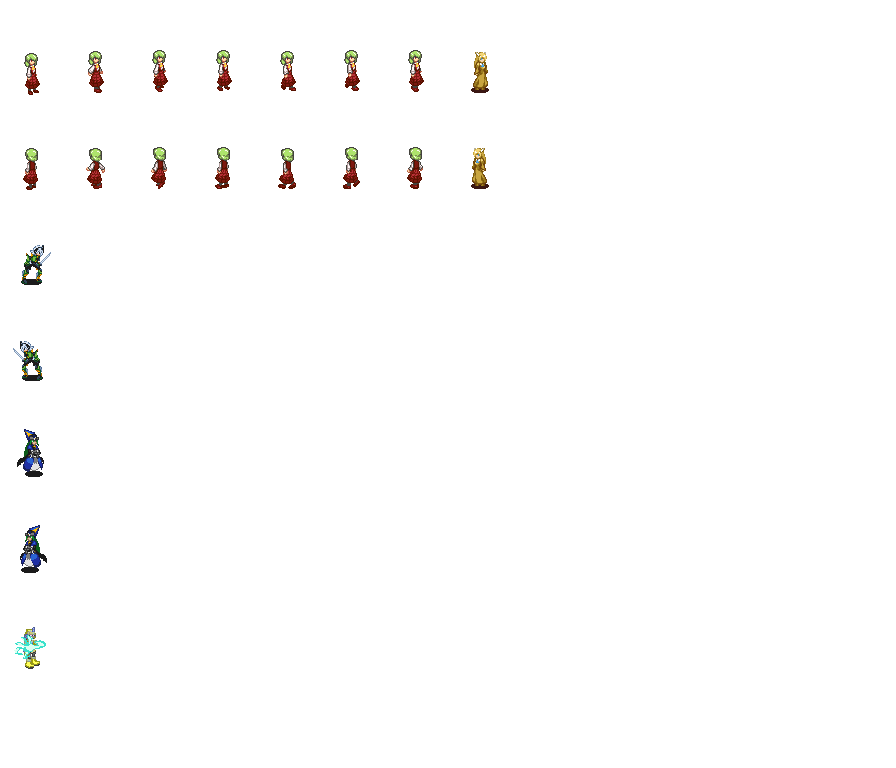
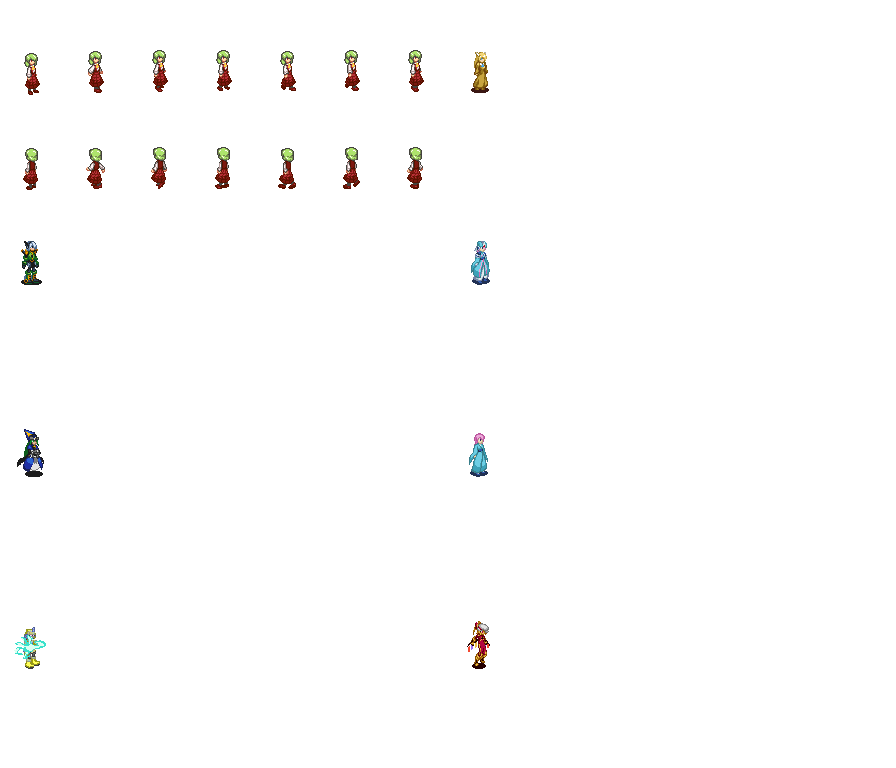
Added faces for postgame, cleaned up demo room combat tests

diff --git a/ShanghaiEXE/Common/Face.cs b/ShanghaiEXE/Common/Face.cs
@@ -146,6 +146,22 @@
         Sheet9Face13Blank,
         Sheet9Face14Blank,
         Sheet9Face15Blank,
-        Sheet9Face16Blank
+        Sheet9Face16Blank,
+        Youmu = 144,
+        FlandreHidden,
+        YuyukoCasual,
+        YuyukoCombat,
+        Mima,
+        Sheet10Face6Blank,
+        Sheet10Face7Blank,
+        Sheet10Face8Blank,
+        Sheet10Face9Blank,
+        Sheet10Face10Blank,
+        Sheet10Face11Blank,
+        Sheet10Face12Blank,
+        Sheet10Face13Blank,
+        Sheet10Face14Blank,
+        Sheet10Face15Blank,
+        Sheet10Face16Blank
     }
 }
